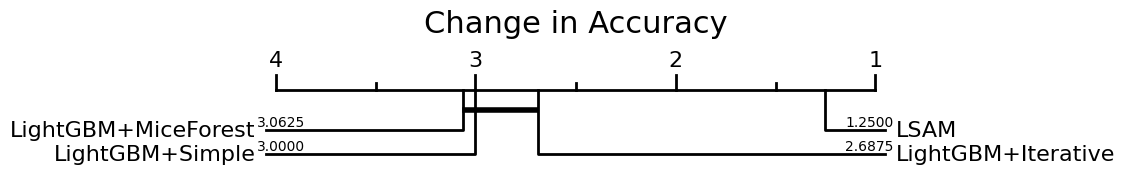
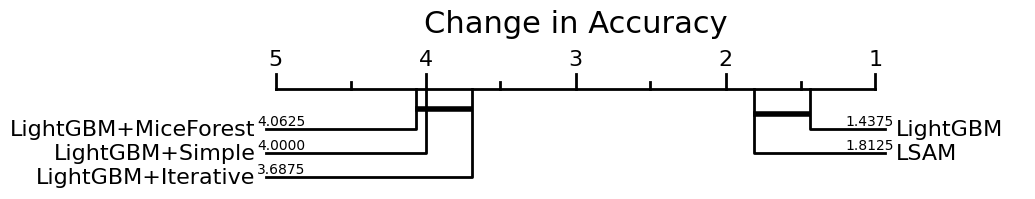
cd sens

diff --git a/cd-diagram/run_diagram.py b/cd-diagram/run_diagram.py
@@ -72,7 +72,7 @@ for missingness in ["MNAR", "MAR", "MCAR"]:
     print(raw.index)
 
     for r in list(itertools.product(["Transformer", "LightGBM"], ["None", "Simple", "Iterative", "MiceForest"], raw.index)):
-        if (r[0] == "Transformer" and r[1] == "None") or (r[0] == "LightGBM" and r[1] != "None"):
+        if (r[0] == "Transformer" and r[1] == "None") or (r[0] == "LightGBM"):
             name = "LSAM" if r[0] == "Transformer" else "LightGBM"
             if r[1] == "None":
                 df_perf['classifier_name'].append(name)
